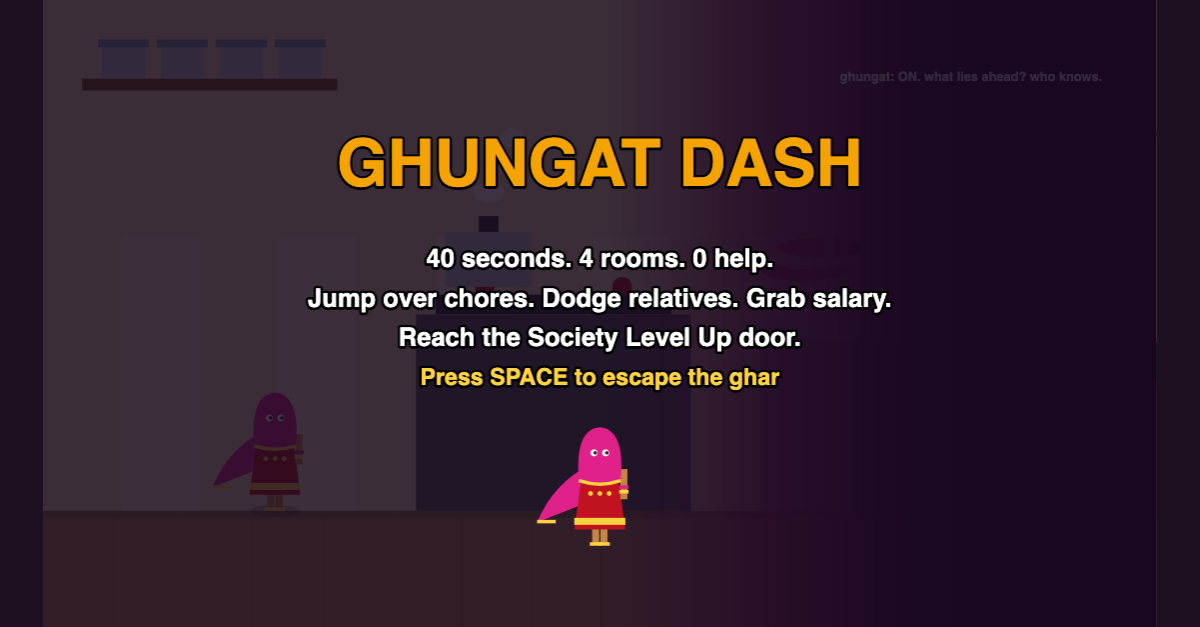
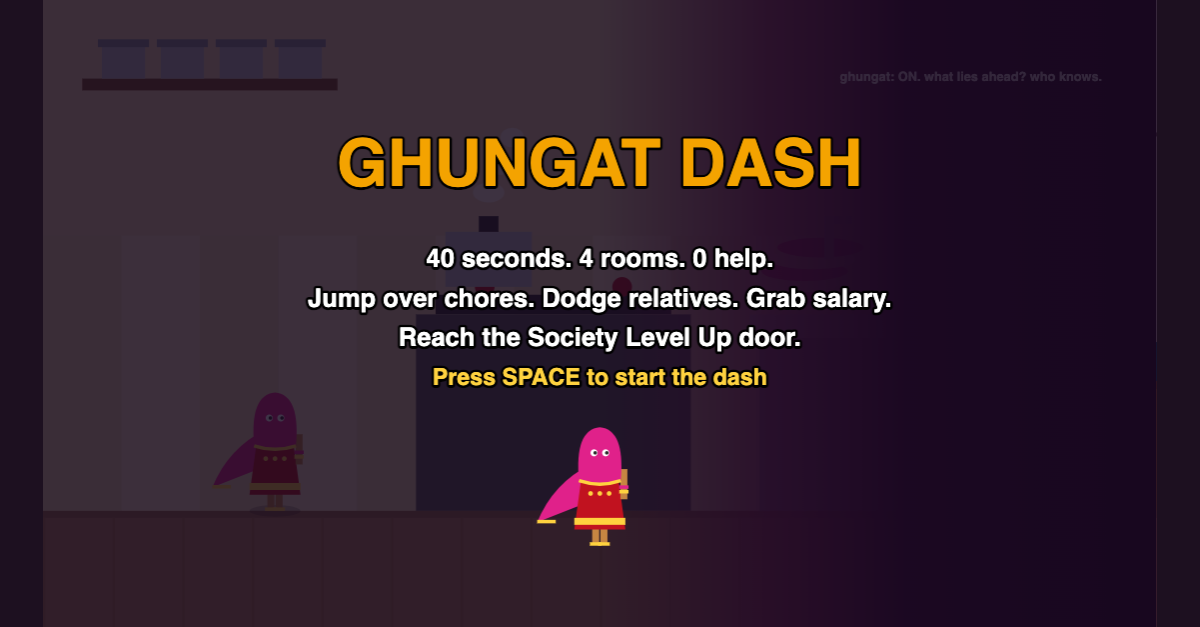
Reword title and start line: outrun the chores, not escape the ghar

Changed region(s): [[0.3392, 0.5758, 0.6475, 0.6364]]

diff --git a/game.js b/game.js
@@ -215,7 +215,7 @@ function draw() {
   if (shake > 0) c.translate((Math.random() - 0.5) * shake, (Math.random() - 0.5) * shake);
   drawWorld(); drawVignette(); c.restore();
   if (state === 'start') {
-    overlay('GHUNGAT DASH', [CONFIG.timeLimit + ' seconds. 4 rooms. 0 help.', 'Jump over chores. Dodge relatives. Grab salary.', 'Reach the Society Level Up door.', (TOUCH ? 'Tap' : 'Press SPACE') + ' to escape the ghar'], P.marigold);
+    overlay('GHUNGAT DASH', [CONFIG.timeLimit + ' seconds. 4 rooms. 0 help.', 'Jump over chores. Dodge relatives. Grab salary.', 'Reach the Society Level Up door.', (TOUCH ? 'Tap' : 'Press SPACE') + ' to start the dash'], P.marigold);
     drawHeroine(c, W / 2, 470, clock, false);
   } else { drawHud(); }
   if (state === 'win') {

diff --git a/index.html b/index.html
@@ -3,7 +3,7 @@
 <meta name="description" content="Jump over chores. Dodge relatives. Grab your salary. Can you reach the door before time runs out?">
 <meta property="og:type" content="website">
 <meta property="og:site_name" content="Ghungat Dash">
-<meta property="og:title" content="Ghungat Dash: can you escape the ghar?">
+<meta property="og:title" content="Ghungat Dash: can you outrun the chores?">
 <meta property="og:description" content="Jump over chores. Dodge relatives. Grab your salary. Can you reach the door before time runs out?">
 <meta property="og:url" content="https://nainataneja.github.io/ghungat-dash/">
 <meta property="og:image" content="https://nainataneja.github.io/ghungat-dash/og.png">
